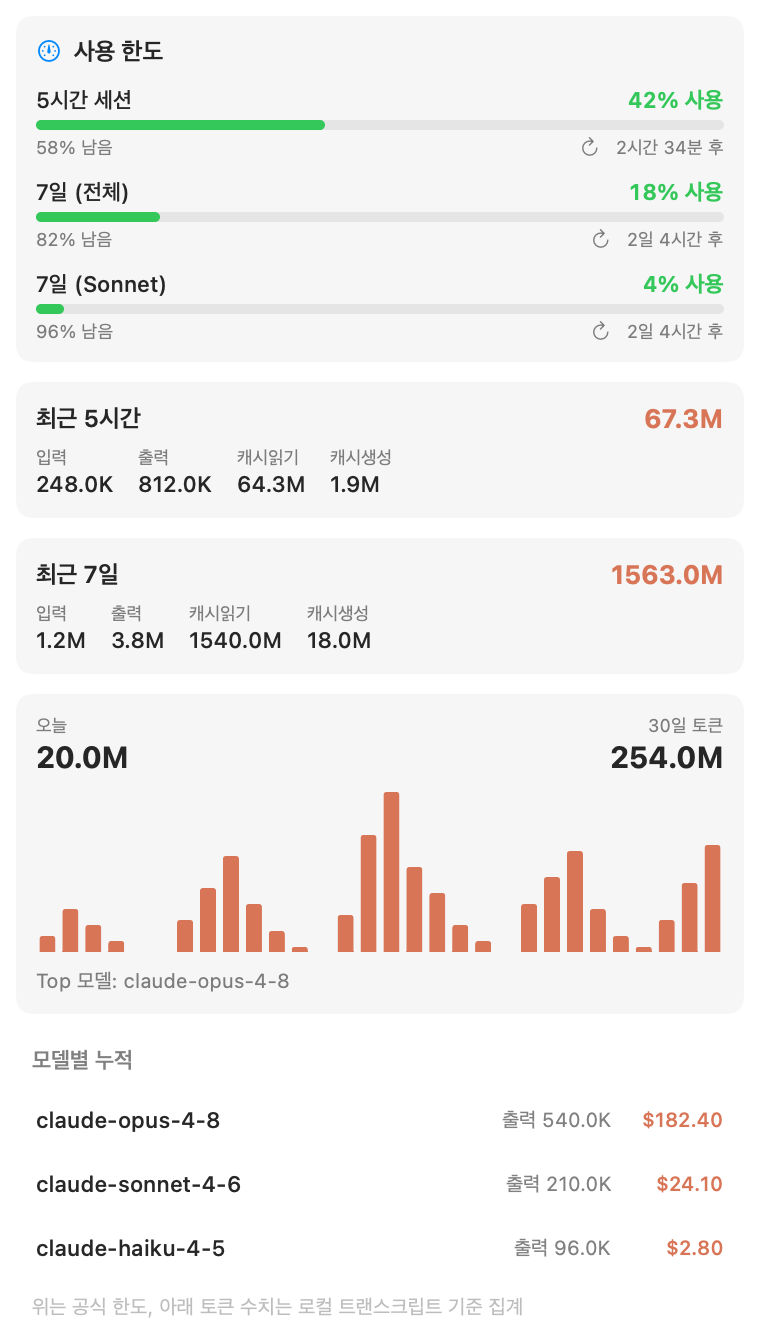
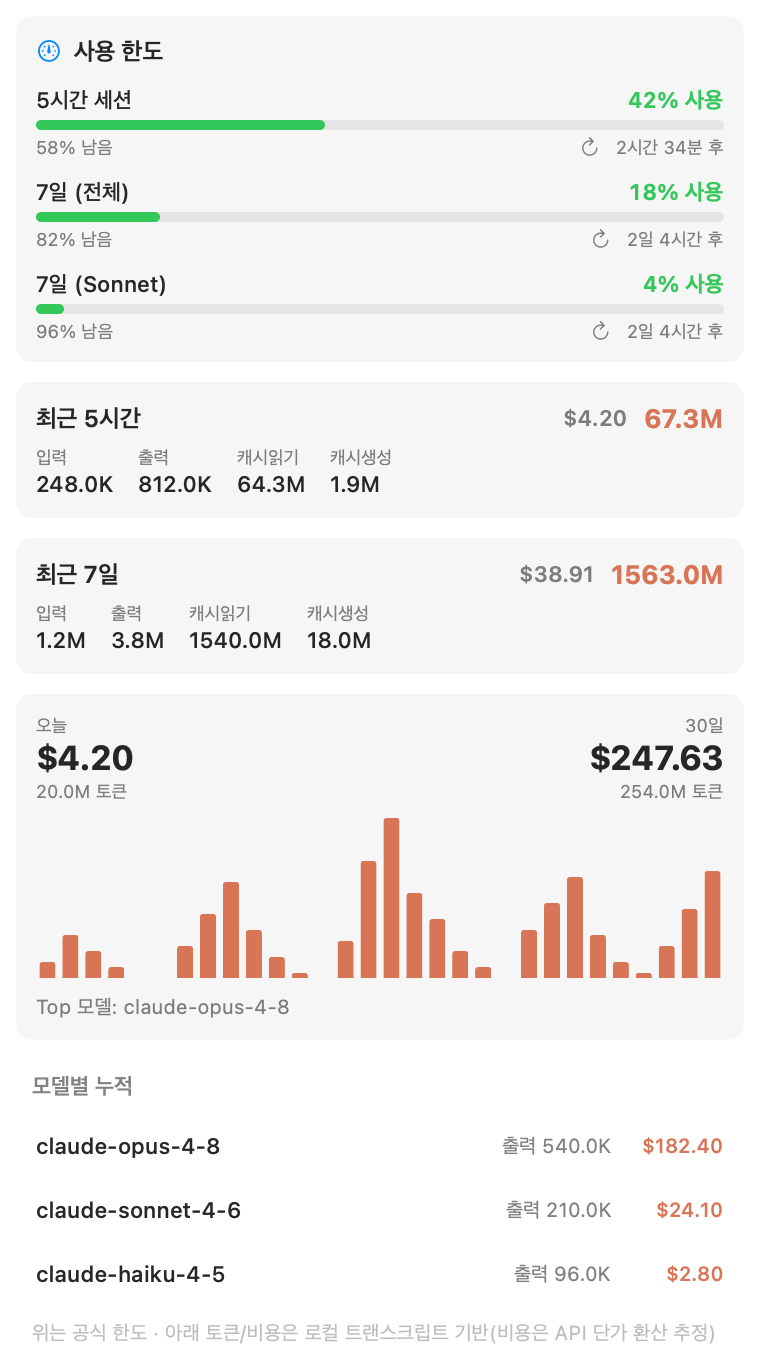
[ADD] 비용 추적 (오늘/7일/30일 $ 추정, 모델별 단가)

diff --git a/Sources/ClaudeBar/Services/UsageService.swift b/Sources/ClaudeBar/Services/UsageService.swift
@@ -24,6 +24,8 @@ enum UsageService {
         var lifetimeByModel: [String: ModelTokenSum]
         var totalTokensHistory: Int
         var todayTokens: Int
+        var todayCost: Double
+        var historyCost: Double
         var topModel: String?
         var officialAvailable: Bool
     }
@@ -32,9 +34,10 @@ enum UsageService {
 
     private struct FileStats {
         var mtime: Date
-        var daily: [String: Int]               // "YYYY-MM-DD" (UTC) -> tokens
+        var daily: [String: Int]               // local "YYYY-MM-DD" -> tokens
+        var dailyCost: [String: Double]        // local "YYYY-MM-DD" -> est. cost
         var models: [String: Int]
-        var recent: [(ts: String, tok: ModelTokenSum)]  // ts = 19-char prefix
+        var recent: [(ts: String, tok: ModelTokenSum, cost: Double)]  // ts = 19-char prefix
     }
 
     /// Single-flight (one usage task at a time), so a plain dictionary is safe.
@@ -60,9 +63,12 @@ enum UsageService {
 
         var liveKeys = Set<String>()
         var dailyTotals: [String: Int] = [:]
+        var dailyCostTotals: [String: Double] = [:]
         var modelTotals: [String: Int] = [:]
         var win5 = ModelTokenSum()
         var win7 = ModelTokenSum()
+        var win5Cost = 0.0
+        var win7Cost = 0.0
 
         for dir in projectDirs {
             let files = (try? fm.contentsOfDirectory(
@@ -88,16 +94,25 @@ enum UsageService {
                 for (day, n) in stats.daily where day >= historyStartDay {
                     dailyTotals[day, default: 0] += n
                 }
+                for (day, c) in stats.dailyCost where day >= historyStartDay {
+                    dailyCostTotals[day, default: 0] += c
+                }
                 for (model, n) in stats.models { modelTotals[model, default: 0] += n }
                 for entry in stats.recent where entry.ts >= sevenDaysAgo {
                     win7.add(entry.tok)
-                    if entry.ts >= fiveHoursAgo { win5.add(entry.tok) }
+                    win7Cost += entry.cost
+                    if entry.ts >= fiveHoursAgo {
+                        win5.add(entry.tok)
+                        win5Cost += entry.cost
+                    }
                 }
             }
         }
 
         cache = cache.filter { liveKeys.contains($0.key) }
 
+        win5.costUSD = win5Cost
+        win7.costUSD = win7Cost
         let windows = [
             makeWindow(id: "5h", title: "최근 5시간", sum: win5),
             makeWindow(id: "7d", title: "최근 7일", sum: win7)
@@ -113,6 +128,8 @@ enum UsageService {
             lifetimeByModel: lifetime,
             totalTokensHistory: daily.reduce(0) { $0 + $1.tokens },
             todayTokens: dailyTotals[todayKey] ?? 0,
+            todayCost: dailyCostTotals[todayKey] ?? 0,
+            historyCost: dailyCostTotals.values.reduce(0, +),
             topModel: modelTotals.max { $0.value < $1.value }?.key,
             officialAvailable: officialUsage() != nil
         )
@@ -131,7 +148,7 @@ enum UsageService {
 
     private static func parse(file: URL, mtime: Date, recentCutoff: String,
                               offsetSeconds: Int) -> FileStats {
-        var stats = FileStats(mtime: mtime, daily: [:], models: [:], recent: [])
+        var stats = FileStats(mtime: mtime, daily: [:], dailyCost: [:], models: [:], recent: [])
         guard let data = try? Data(contentsOf: file) else { return stats }
 
         data.withUnsafeBytes { (raw: UnsafeRawBufferPointer) in
@@ -176,12 +193,18 @@ enum UsageService {
 
         stats.daily[dayKey, default: 0] += total
 
+        var model = ""
         if let mPos = find(b, pModel, lo, hi) {
             let mStart = mPos + pModel.count
             if let mEnd = findByte(b, 0x22, mStart, hi) {
-                stats.models[ascii(b, mStart, mEnd), default: 0] += total
+                model = ascii(b, mStart, mEnd)
+                stats.models[model, default: 0] += total
             }
         }
+
+        let cost = Pricing.cost(model: model, input: input, output: output,
+                                cacheRead: cacheRead, cacheWrite: cacheCreate)
+        stats.dailyCost[dayKey, default: 0] += cost
 
         if tsPrefix >= recentCutoff {
             var tok = ModelTokenSum()
@@ -189,7 +212,7 @@ enum UsageService {
             tok.outputTokens = output
             tok.cacheReadTokens = cacheRead
             tok.cacheCreationTokens = cacheCreate
-            stats.recent.append((tsPrefix, tok))
+            stats.recent.append((tsPrefix, tok, cost))
         }
     }
 

diff --git a/Sources/ClaudeBar/Features/UsageView.swift b/Sources/ClaudeBar/Features/UsageView.swift
@@ -34,8 +34,8 @@ struct UsageView: View {
                     }
 
                     Text(state.rateLimit == nil
-                         ? "공식 사용 한도를 가져오지 못했습니다 · 아래는 로컬 토큰 집계"
-                         : "위는 공식 한도, 아래 토큰 수치는 로컬 트랜스크립트 기준 집계")
+                         ? "공식 사용 한도를 가져오지 못했습니다 · 아래는 로컬 집계"
+                         : "위는 공식 한도 · 아래 토큰/비용은 로컬 트랜스크립트 기반(비용은 API 단가 환산 추정)")
                         .font(.system(size: 10))
                         .foregroundStyle(.tertiary)
                         .padding(.horizontal, 8)
@@ -133,10 +133,11 @@ private struct DailyChartCard: View {
     var body: some View {
         VStack(alignment: .leading, spacing: 8) {
             HStack(alignment: .top) {
-                stat("오늘", Format.tokens(usage.todayTokens))
+                stat("오늘", Format.cost(usage.todayCost),
+                     "\(Format.tokens(usage.todayTokens)) 토큰")
                 Spacer()
-                stat("\(UsageService.historyDays)일 토큰", Format.tokens(usage.totalTokensHistory),
-                     align: .trailing)
+                stat("\(UsageService.historyDays)일", Format.cost(usage.historyCost),
+                     "\(Format.tokens(usage.totalTokensHistory)) 토큰", align: .trailing)
             }
 
             Chart(usage.daily) { day in
@@ -164,11 +165,12 @@ private struct DailyChartCard: View {
         .cornerRadius(8)
     }
 
-    private func stat(_ label: String, _ value: String,
+    private func stat(_ label: String, _ value: String, _ sub: String,
                       align: HorizontalAlignment = .leading) -> some View {
         VStack(alignment: align, spacing: 1) {
             Text(label).font(.system(size: 9)).foregroundStyle(.secondary)
-            Text(value).font(.system(size: 15, weight: .bold))
+            Text(value).font(.system(size: 17, weight: .bold))
+            Text(sub).font(.system(size: 9)).foregroundStyle(.secondary)
         }
     }
 }
@@ -183,6 +185,11 @@ private struct UsageCard: View {
                 Text(window.title)
                     .font(.system(size: 12, weight: .semibold))
                 Spacer()
+                if window.costUSD > 0 {
+                    Text(Format.cost(window.costUSD))
+                        .font(.system(size: 11, weight: .semibold))
+                        .foregroundStyle(.secondary)
+                }
                 Text(Format.tokens(window.totalTokens))
                     .font(.system(size: 13, weight: .bold))
                     .foregroundStyle(Color.claudeCoral)

diff --git a/Sources/ClaudeBar/Core/Pricing.swift b/Sources/ClaudeBar/Core/Pricing.swift
@@ -1,0 +1,34 @@
+import Foundation
+
+/// Approximate Claude API pricing ($ per 1M tokens) used to estimate cost from
+/// token counts. Subscription (Max) usage is "included", so this is the
+/// API-equivalent estimate, matching what `/usage` and ccusage-style tools show.
+enum Pricing {
+    struct Rate {
+        let input: Double
+        let output: Double
+        let cacheRead: Double
+        let cacheWrite: Double
+    }
+
+    static func rate(for model: String) -> Rate {
+        let m = model.lowercased()
+        if m.contains("opus") {
+            return Rate(input: 15, output: 75, cacheRead: 1.5, cacheWrite: 18.75)
+        }
+        if m.contains("haiku") {
+            return Rate(input: 0.80, output: 4, cacheRead: 0.08, cacheWrite: 1.0)
+        }
+        // sonnet / default
+        return Rate(input: 3, output: 15, cacheRead: 0.30, cacheWrite: 3.75)
+    }
+
+    static func cost(model: String, input: Int, output: Int,
+                     cacheRead: Int, cacheWrite: Int) -> Double {
+        let r = rate(for: model)
+        return (Double(input) * r.input
+                + Double(output) * r.output
+                + Double(cacheRead) * r.cacheRead
+                + Double(cacheWrite) * r.cacheWrite) / 1_000_000
+    }
+}

diff --git a/Sources/ClaudeBar/MockData.swift b/Sources/ClaudeBar/MockData.swift
@@ -81,10 +81,10 @@ enum MockData {
         let windows = [
             UsageWindow(id: "5h", title: "최근 5시간", inputTokens: 248_000,
                         outputTokens: 812_000, cacheReadTokens: 64_300_000,
-                        cacheCreationTokens: 1_900_000, costUSD: 0),
+                        cacheCreationTokens: 1_900_000, costUSD: 4.20),
             UsageWindow(id: "7d", title: "최근 7일", inputTokens: 1_200_000,
                         outputTokens: 3_800_000, cacheReadTokens: 1_540_000_000,
-                        cacheCreationTokens: 18_000_000, costUSD: 0)
+                        cacheCreationTokens: 18_000_000, costUSD: 38.91)
         ]
         var models: [String: ModelTokenSum] = [:]
         models["claude-opus-4-8"] = ModelTokenSum(
@@ -103,6 +103,8 @@ enum MockData {
             lifetimeByModel: models,
             totalTokensHistory: daily.reduce(0) { $0 + $1.tokens },
             todayTokens: daily.last?.tokens ?? 0,
+            todayCost: 4.20,
+            historyCost: 247.63,
             topModel: "claude-opus-4-8",
             officialAvailable: false)
     }

diff --git a/Sources/ClaudeBar/Diagnostics.swift b/Sources/ClaudeBar/Diagnostics.swift
@@ -43,6 +43,9 @@ enum Diagnostics {
         for w in usage.windows {
             print("  \(w.title): 합계 \(Format.tokens(w.totalTokens)) (입력 \(Format.tokens(w.inputTokens)), 출력 \(Format.tokens(w.outputTokens)), 캐시읽기 \(Format.tokens(w.cacheReadTokens)))")
         }
+        print(String(format: "  비용 추정: 오늘 $%.2f, %d일 $%.2f, 5h $%.2f, 7d $%.2f",
+                     usage.todayCost, UsageService.historyDays, usage.historyCost,
+                     usage.windows.first?.costUSD ?? 0, usage.windows.last?.costUSD ?? 0))
         let nonZero = usage.daily.filter { $0.tokens > 0 }.count
         let peak = usage.daily.max { $0.tokens < $1.tokens }
         print("  일별 히스토그램: \(usage.daily.count)일 (활동 \(nonZero)일), 오늘 \(Format.tokens(usage.todayTokens)), \(UsageService.historyDays)일합계 \(Format.tokens(usage.totalTokensHistory))")

diff --git a/docs/change-log/2026-06-12.md b/docs/change-log/2026-06-12.md
@@ -192,6 +192,16 @@
 ### 변경 파일
 - `Core/Models.swift`(Session.activity), `Services/SessionScanner.swift`(summarizeContent/briefInput), `Features/SessionListView.swift`(활동 라인), `MockData.swift`
 
+## [ADD] 비용 추적 (API 단가 환산 추정)
+
+- 사용량 탭에 **오늘 / 30일 / 5h / 7d 비용($)** 표시. 차트 카드 상단은 비용을 헤드라인으로(토큰은 보조).
+- 모델 단가 테이블(`Pricing`)로 토큰×단가 계산. input/output/cache-read/cache-write 구분. opus/sonnet/haiku 매칭.
+- UsageService 파서가 라인별 비용을 일별/윈도우/파일캐시에 누적(per-file mtime 캐시 유지).
+- 구독(Max) 사용량은 포함이므로 **API 단가 환산 추정**임을 푸터에 명시.
+
+### 변경 파일
+- `Core/Pricing.swift`(신규), `Services/UsageService.swift`(비용 누적), `Features/UsageView.swift`(비용 표시), `MockData.swift`, `Diagnostics.swift`
+
 ## 이슈/논의
 - `/api/oauth/usage`는 비공식 엔드포인트라 스키마/동작이 예고 없이 바뀔 수 있음. 토큰 만료 시 자동 refresh는 미구현(Claude Code 사용 시 Keychain 토큰이 갱신됨에 의존).
 - 최초 fetch 시 앱이 Keychain 접근 허용 프롬프트를 띄울 수 있음(허용 필요).
